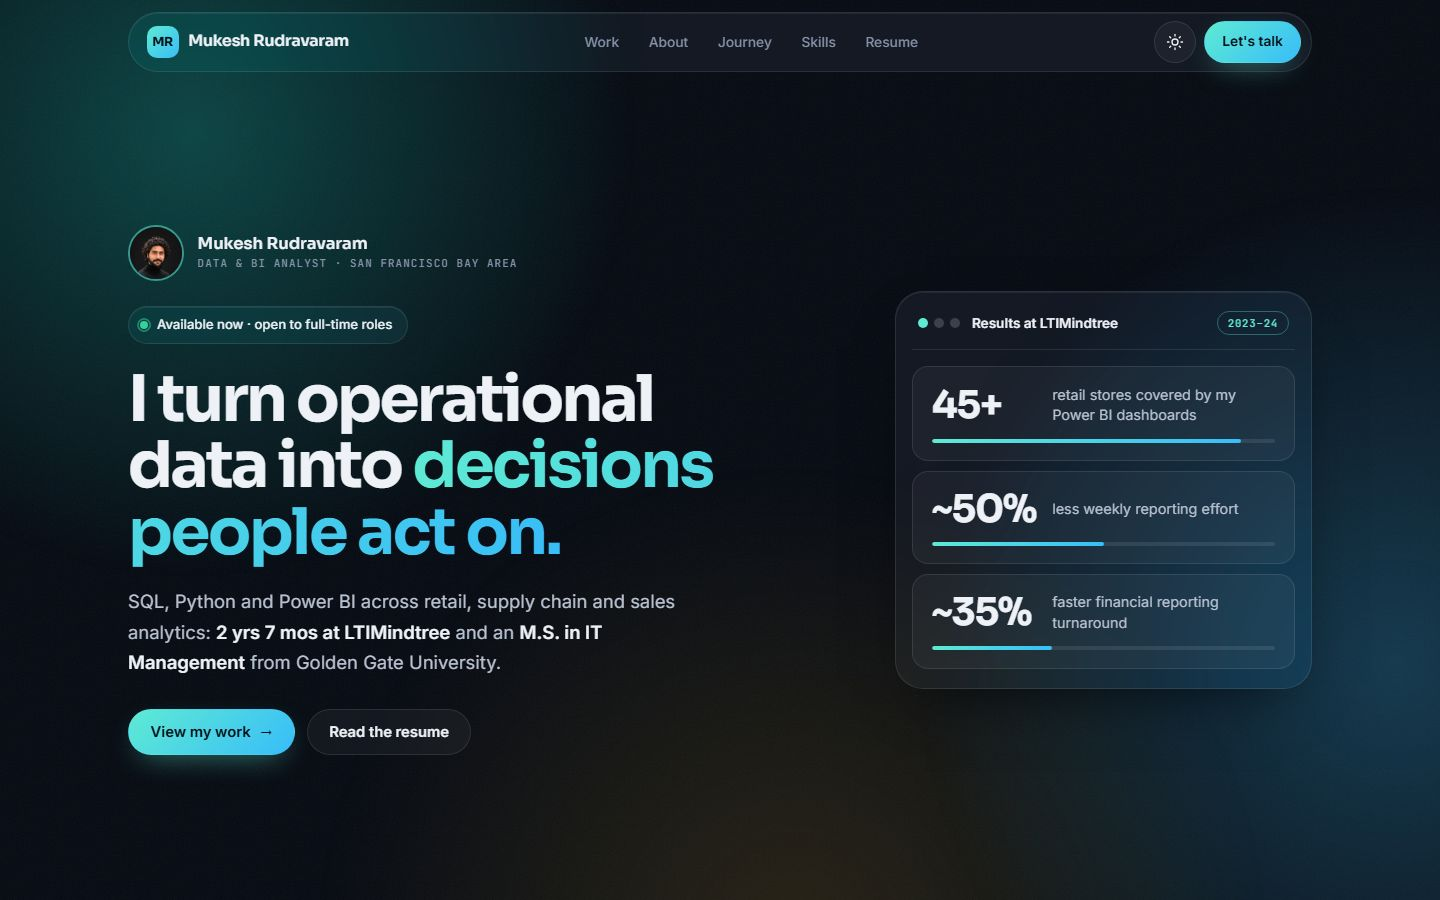
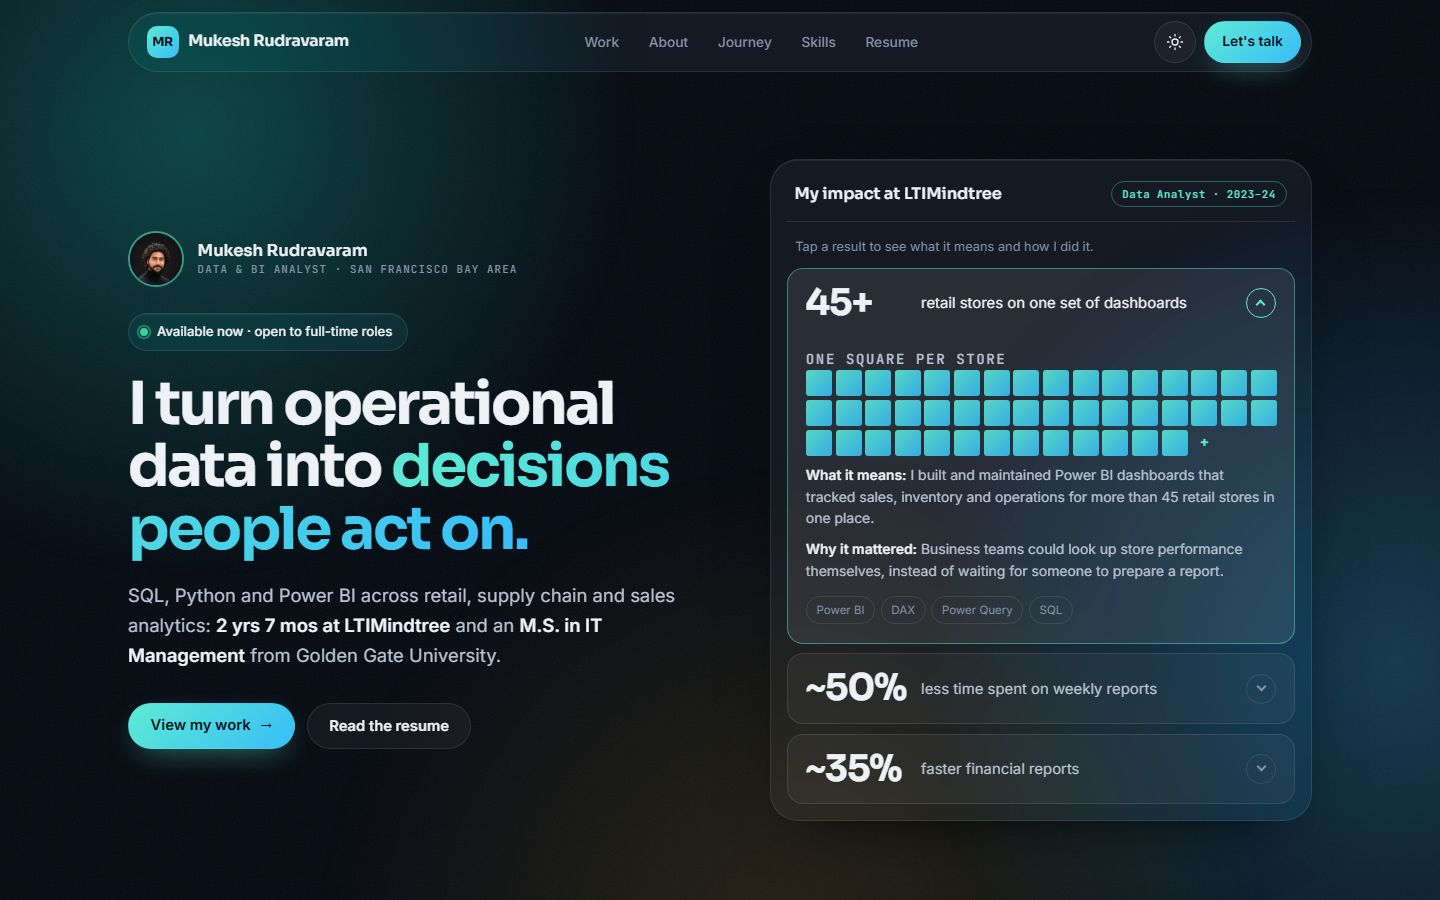
Hero: interactive "My impact" card that explains each result
- Each result opens (native <details>) to say what it means and how it was done
- 45+ stores as one square per store; ~50% and ~35% as before/after bars
- Remove the decorative window dots; wider card column, three-line headline
- Wrap the card header on small screens (no overflow at 320px)
- Reveal fallback so the hero never stays hidden if frames are delayed
- Refresh README and link-preview screenshots; note in CHANGELOG

diff --git a/index.html b/index.html
@@ -313,7 +313,7 @@ h4 {
 /* =============================================================== hero */
 .hero { padding-top: clamp(7.5rem, 13vw, 9.5rem); padding-bottom: clamp(3rem, 6vw, 4.5rem); min-height: min(100svh, 60rem); display: flex; align-items: center; }
 .hero > .wrap { width: 100%; }
-.hero-grid { display: grid; grid-template-columns: minmax(0, 1.25fr) minmax(0, 0.75fr); gap: clamp(2rem, 5vw, 4.5rem); align-items: center; }
+.hero-grid { display: grid; grid-template-columns: minmax(0, 1fr) minmax(0, 0.95fr); gap: clamp(2rem, 5vw, 4.5rem); align-items: center; }
 .hero-id { display: flex; align-items: center; gap: 0.85rem; margin-bottom: 1.6rem; }
 .avatar { width: 56px; height: 56px; border-radius: 50%; object-fit: cover; object-position: center 30%; border: 2px solid color-mix(in srgb, var(--accent) 55%, transparent); flex-shrink: 0; }
 .hero-id strong { display: block; color: var(--fg); font: 600 1.02rem/1.25 var(--f-display); }
@@ -326,52 +326,62 @@ h4 {
 .badge .dot { position: relative; width: 8px; height: 8px; border-radius: 50%; background: #34d399; }
 .badge .dot::after { content: ""; position: absolute; inset: -4px; border-radius: 50%; border: 2px solid #34d399; opacity: 0; animation: ping 2.4s var(--ease) infinite; }
 @keyframes ping { 0% { transform: scale(0.6); opacity: 0.7; } 100% { transform: scale(1.6); opacity: 0; } }
-.hero h1 { font: 700 clamp(2.3rem, 4.6vw, 4rem)/1.04 var(--f-display); letter-spacing: -0.04em; margin: 0 0 1.25rem; }
+.hero h1 { font: 700 clamp(2.3rem, 4.4vw, 3.7rem)/1.05 var(--f-display); letter-spacing: -0.04em; margin: 0 0 1.25rem; }
 .grad { background: linear-gradient(100deg, var(--accent), var(--accent-2)); -webkit-background-clip: text; background-clip: text; color: transparent; }
 .hero-sub { font-size: clamp(1.02rem, 1.5vw, 1.15rem); max-width: 50ch; color: var(--fg-soft); }
 .hero-sub b { color: var(--fg); font-weight: 600; }
 .hero-cta { display: flex; flex-wrap: wrap; gap: 0.75rem; margin-top: 2rem; }
 
-/* The dashboard card: real figures from the LTIMindtree work, and the data
-   path behind them drawn as a live pipeline. */
+/* Impact card: each result opens to explain itself in plain words, with a
+   before/after comparison or a count of stores. Built on <details>, so it
+   works with no script at all. */
 .dash { padding: 1rem; border-radius: 28px; }
-.dash-top { display: flex; align-items: center; gap: 0.75rem; padding: 0.2rem 0.4rem 0.9rem; border-bottom: 1px solid var(--line); }
-.dash-dots { display: flex; gap: 6px; }
-.dash-dots i { width: 10px; height: 10px; border-radius: 50%; background: color-mix(in srgb, var(--fg) 18%, transparent); }
-.dash-dots i:first-child { background: var(--accent); }
-.dash-title { font-size: 0.85rem; font-weight: 600; color: var(--fg); }
-.dash-when { margin-left: auto; font: 500 0.66rem/1 var(--f-mono); letter-spacing: 0.08em; color: var(--accent); padding: 0.35rem 0.6rem; border-radius: 999px; border: 1px solid color-mix(in srgb, var(--accent) 35%, transparent); }
-.kpis { display: grid; gap: 0.6rem; margin: 1rem 0 0.2rem; }
-.kpi { display: grid; grid-template-columns: 6.5rem 1fr; align-items: center; column-gap: 1rem; padding: 1.1rem 1.2rem; border-radius: 16px; background: var(--panel); border: 1px solid var(--line); }
-.kpi b { display: block; font: 700 clamp(1.8rem, 3vw, 2.4rem)/1 var(--f-display); letter-spacing: -0.03em; color: var(--fg); }
-.kpi span { display: block; font-size: 0.9rem; line-height: 1.4; color: var(--fg-soft); }
-.kpi-bar { grid-column: 1 / -1; height: 4px; border-radius: 4px; margin-top: 0.85rem; background: color-mix(in srgb, var(--fg) 10%, transparent); overflow: hidden; }
-.kpi-bar i { display: block; height: 100%; border-radius: inherit; background: var(--btn-bg); transform-origin: 0 50%; }
-.js .kpi-bar i { transform: scaleX(0); }
-.js.ready .kpi-bar i { transform: scaleX(1); transition: transform 1.4s var(--ease) 0.7s; }
-.flow-box { padding: 0.9rem 0.6rem 0.5rem; border-radius: 16px; background: var(--panel); border: 1px solid var(--line); }
-.flow-label { margin: 0 0.4rem 0.4rem; font: 500 0.64rem/1.2 var(--f-mono); letter-spacing: 0.12em; text-transform: uppercase; color: var(--fg-muted); }
-.flow { width: 100%; height: auto; }
-.flow .node { fill: color-mix(in srgb, var(--fg) 6%, transparent); stroke: var(--line-strong); }
-.flow .node.hub { fill: color-mix(in srgb, var(--accent) 16%, transparent); stroke: color-mix(in srgb, var(--accent) 55%, transparent); }
-.flow .node.out { fill: color-mix(in srgb, var(--accent-2) 16%, transparent); stroke: color-mix(in srgb, var(--accent-2) 55%, transparent); }
-.flow text { fill: var(--fg); font: 600 13px var(--f-body); }
-.flow text.sub { fill: var(--fg-muted); font: 500 10.5px var(--f-mono); letter-spacing: 0.04em; }
-.flow .wire { fill: none; stroke: var(--line-strong); stroke-width: 1.5; }
-.flow .pulse { fill: none; stroke: var(--accent); stroke-width: 2.5; stroke-linecap: round; stroke-dasharray: 10 190; animation: pulse 3s linear infinite; }
-.flow .pulse.p2 { animation-delay: -1s; }
-.flow .pulse.p3 { animation-delay: -2s; }
-.flow .pulse.out { stroke: var(--accent-2); stroke-dasharray: 10 90; animation-duration: 1.5s; }
-@keyframes pulse { from { stroke-dashoffset: 200; } to { stroke-dashoffset: 0; } }
+.dash-top { display: flex; align-items: center; gap: 0.75rem; padding: 0.35rem 0.5rem 0.9rem; border-bottom: 1px solid var(--line); }
+.dash-title { font: 600 1rem/1.3 var(--f-display); color: var(--fg); }
+.dash-when { margin-left: auto; white-space: nowrap; font: 500 0.66rem/1 var(--f-mono); letter-spacing: 0.06em; color: var(--accent); padding: 0.4rem 0.65rem; border-radius: 999px; border: 1px solid color-mix(in srgb, var(--accent) 35%, transparent); }
+.dash-hint { margin: 0.85rem 0.5rem 0; font-size: 0.8rem; color: var(--fg-muted); }
+.kpis { display: grid; gap: 0.6rem; margin-top: 0.7rem; }
+.kpi { border-radius: 16px; background: var(--panel); border: 1px solid var(--line); transition: border-color 0.3s ease, background 0.3s ease; }
+.kpi:hover { border-color: var(--line-strong); }
+.kpi[open] { border-color: color-mix(in srgb, var(--accent) 45%, transparent); background: var(--panel-strong); }
+.kpi summary {
+  display: grid; grid-template-columns: 6.2rem minmax(0, 1fr) auto; align-items: center; column-gap: 1rem;
+  padding: 1rem 1.1rem; cursor: pointer; list-style: none; border-radius: 16px;
+}
+.kpi summary::-webkit-details-marker { display: none; }
+.kpi b { font: 700 clamp(1.8rem, 3vw, 2.3rem)/1 var(--f-display); letter-spacing: -0.03em; color: var(--fg); }
+.kpi-l { font-size: 0.93rem; line-height: 1.35; color: var(--fg-soft); transition: color 0.2s ease; }
+.kpi summary:hover .kpi-l, .kpi[open] .kpi-l { color: var(--fg); }
+.chev { display: grid; place-items: center; width: 30px; height: 30px; border-radius: 50%; border: 1px solid var(--line); color: var(--fg-muted); transition: transform 0.35s var(--ease), border-color 0.3s ease, color 0.3s ease; }
+.chev::before { content: ""; width: 7px; height: 7px; border-right: 2px solid currentColor; border-bottom: 2px solid currentColor; transform: translateY(-2px) rotate(45deg); }
+.kpi[open] .chev { transform: rotate(180deg); border-color: var(--accent); color: var(--accent); }
+.kpi-more { padding: 0.1rem 1.1rem 1.15rem; animation: fadeUp 0.4s var(--ease); }
+.kpi-more p { font-size: 0.87rem; line-height: 1.55; margin: 0.6rem 0 0; color: var(--fg-soft); }
+.kpi-more strong { color: var(--fg); font-weight: 600; }
+.kpi-tools { display: flex; flex-wrap: wrap; gap: 0.35rem; margin-top: 0.85rem; }
+.kpi-tools li { font-size: 0.72rem; padding: 0.22rem 0.6rem; border-radius: 999px; border: 1px solid var(--line); color: var(--fg-muted); }
+.viz-label { margin: 0 0 0.45rem; font: 500 0.62rem/1.2 var(--f-mono); letter-spacing: 0.12em; text-transform: uppercase; color: var(--fg-muted); }
+/* 45+ stores, one square each. */
+.stores { display: grid; grid-template-columns: repeat(16, minmax(0, 1fr)); gap: 4px; }
+.stores i { aspect-ratio: 1; border-radius: 3px; background: var(--btn-bg); opacity: 0.9; animation: pop 0.35s var(--ease) both; animation-delay: calc(var(--n) * 12ms); }
+.stores .plus { display: grid; place-items: center; font: 700 0.85rem/1 var(--f-display); color: var(--accent); }
+@keyframes pop { from { transform: scale(0); opacity: 0; } }
+/* Before / after bars. */
+.compare { display: grid; gap: 0.45rem; }
+.cmp { display: grid; grid-template-columns: 3.3rem minmax(0, 1fr) 3rem; align-items: center; gap: 0.6rem; font-size: 0.78rem; color: var(--fg-muted); }
+.cmp em { font-style: normal; text-align: right; color: var(--fg); font-weight: 600; font-variant-numeric: tabular-nums; }
+.track { height: 9px; border-radius: 9px; background: color-mix(in srgb, var(--fg) 9%, transparent); overflow: hidden; }
+.track i { display: block; height: 100%; width: var(--w); border-radius: inherit; background: color-mix(in srgb, var(--fg) 32%, transparent); transform-origin: 0 50%; animation: grow 0.9s var(--ease) both 0.1s; }
+.cmp.after .track i { background: var(--btn-bg); animation-delay: 0.4s; }
+@keyframes grow { from { transform: scaleX(0); } }
 
-.tools { display: flex; flex-wrap: wrap; align-items: center; gap: 0.5rem; margin-top: clamp(2.5rem, 5vw, 4rem); padding-top: 1.5rem; border-top: 1px solid var(--line); }
-.tools-label { font: 500 0.68rem/1 var(--f-mono); letter-spacing: 0.12em; text-transform: uppercase; color: var(--fg-muted); margin-right: 0.5rem; }
-.tools li { font-size: 0.84rem; font-weight: 500; color: var(--fg-soft); padding: 0.4rem 0.8rem; border-radius: 999px; border: 1px solid var(--line); background: var(--panel); transition: border-color 0.25s ease, color 0.25s ease, transform 0.3s var(--ease); }
-.tools li:hover { border-color: var(--accent); color: var(--fg); transform: translateY(-2px); }
-.tools ul { display: contents; }
 @media (max-width: 960px) { .hero-grid { grid-template-columns: 1fr; } .dash { max-width: 36rem; } }
 @media (max-width: 560px) {
-  .kpi { grid-template-columns: 5rem 1fr; }
+  .kpi summary { grid-template-columns: 4.7rem minmax(0, 1fr) auto; column-gap: 0.75rem; padding: 0.9rem; }
+  .kpi-more { padding: 0.1rem 0.9rem 1rem; }
+  .dash-top { flex-wrap: wrap; row-gap: 0.5rem; }
+  .dash-when { margin-left: 0; }
+  .stores { grid-template-columns: repeat(12, minmax(0, 1fr)); }
   .hero-cta .btn { flex: 1 1 100%; }
 }
 
@@ -692,16 +702,49 @@ html:has(.case:popover-open) { overflow: hidden; }
         </div>
       </div>
 
-      <figure class="dash glass" data-enter style="--d:3; margin:0" aria-label="Results from my retail and supply chain analytics work at LTIMindtree">
+      <figure class="dash glass" data-enter style="--d:3; margin:0" aria-label="My impact at LTIMindtree, explained">
         <div class="dash-top">
-          <span class="dash-dots" aria-hidden="true"><i></i><i></i><i></i></span>
-          <span class="dash-title">Results at LTIMindtree</span>
-          <span class="dash-when">2023&ndash;24</span>
+          <span class="dash-title">My impact at LTIMindtree</span>
+          <span class="dash-when">Data Analyst &middot; 2023&ndash;24</span>
         </div>
+        <p class="dash-hint">Tap a result to see what it means and how I did it.</p>
         <div class="kpis">
-          <div class="kpi"><b>45+</b><span>retail stores covered by my Power BI dashboards</span><div class="kpi-bar" aria-hidden="true"><i style="width:90%"></i></div></div>
-          <div class="kpi"><b>~50%</b><span>less weekly reporting effort</span><div class="kpi-bar" aria-hidden="true"><i style="width:50%"></i></div></div>
-          <div class="kpi"><b>~35%</b><span>faster financial reporting turnaround</span><div class="kpi-bar" aria-hidden="true"><i style="width:35%"></i></div></div>
+          <details class="kpi" name="impact" open>
+            <summary><b>45+</b><span class="kpi-l">retail stores on one set of dashboards</span><span class="chev" aria-hidden="true"></span></summary>
+            <div class="kpi-more">
+              <p class="viz-label">One square per store</p>
+              <div class="stores" aria-hidden="true"><i style="--n:0"></i><i style="--n:1"></i><i style="--n:2"></i><i style="--n:3"></i><i style="--n:4"></i><i style="--n:5"></i><i style="--n:6"></i><i style="--n:7"></i><i style="--n:8"></i><i style="--n:9"></i><i style="--n:10"></i><i style="--n:11"></i><i style="--n:12"></i><i style="--n:13"></i><i style="--n:14"></i><i style="--n:15"></i><i style="--n:16"></i><i style="--n:17"></i><i style="--n:18"></i><i style="--n:19"></i><i style="--n:20"></i><i style="--n:21"></i><i style="--n:22"></i><i style="--n:23"></i><i style="--n:24"></i><i style="--n:25"></i><i style="--n:26"></i><i style="--n:27"></i><i style="--n:28"></i><i style="--n:29"></i><i style="--n:30"></i><i style="--n:31"></i><i style="--n:32"></i><i style="--n:33"></i><i style="--n:34"></i><i style="--n:35"></i><i style="--n:36"></i><i style="--n:37"></i><i style="--n:38"></i><i style="--n:39"></i><i style="--n:40"></i><i style="--n:41"></i><i style="--n:42"></i><i style="--n:43"></i><i style="--n:44"></i><span class="plus">+</span></div>
+              <p><strong>What it means:</strong> I built and maintained Power BI dashboards that tracked sales, inventory and operations for more than 45 retail stores in one place.</p>
+              <p><strong>Why it mattered:</strong> Business teams could look up store performance themselves, instead of waiting for someone to prepare a report.</p>
+              <ul class="kpi-tools"><li>Power BI</li><li>DAX</li><li>Power Query</li><li>SQL</li></ul>
+            </div>
+          </details>
+          <details class="kpi" name="impact">
+            <summary><b>~50%</b><span class="kpi-l">less time spent on weekly reports</span><span class="chev" aria-hidden="true"></span></summary>
+            <div class="kpi-more">
+              <p class="viz-label">Weekly reporting effort</p>
+              <div class="compare" aria-hidden="true">
+                <div class="cmp"><span>Before</span><span class="track"><i style="--w:100%"></i></span><em>100%</em></div>
+                <div class="cmp after"><span>After</span><span class="track"><i style="--w:50%"></i></span><em>~50%</em></div>
+              </div>
+              <p><strong>What it means:</strong> The work that went into weekly reporting dropped to about half of what it was.</p>
+              <p><strong>How:</strong> The dashboards gave teams self-service access to their own numbers, so far less had to be put together by hand every week.</p>
+              <ul class="kpi-tools"><li>Power BI</li><li>Advanced Excel</li></ul>
+            </div>
+          </details>
+          <details class="kpi" name="impact">
+            <summary><b>~35%</b><span class="kpi-l">faster financial reports</span><span class="chev" aria-hidden="true"></span></summary>
+            <div class="kpi-more">
+              <p class="viz-label">Time to deliver a financial report</p>
+              <div class="compare" aria-hidden="true">
+                <div class="cmp"><span>Before</span><span class="track"><i style="--w:100%"></i></span><em>100%</em></div>
+                <div class="cmp after"><span>After</span><span class="track"><i style="--w:65%"></i></span><em>~65%</em></div>
+              </div>
+              <p><strong>What it means:</strong> Financial reports were ready about a third sooner than before.</p>
+              <p><strong>How:</strong> I automated the recurring steps that used to be done by hand: pulling the data, transforming and checking it, and generating the report.</p>
+              <ul class="kpi-tools"><li>SQL</li><li>Python</li><li>Power BI</li></ul>
+            </div>
+          </details>
         </div>
       </figure>
     </div>
@@ -1294,6 +1337,8 @@ html:has(.case:popover-open) { overflow: hidden; }
   root.classList.add('js');
   // Next frame, so the hidden start state paints before the entrance runs.
   requestAnimationFrame(function () { requestAnimationFrame(function () { root.classList.add('ready'); }); });
+  // Safety net: if frames are delayed (background tab, screenshot tools), still reveal the hero.
+  setTimeout(function () { root.classList.add('ready'); }, 900);
 
   /* ------------------------------------------------------------- toast */
   var toastEl = $('#toast'), toastTimer;

diff --git a/CHANGELOG.md b/CHANGELOG.md
@@ -1,5 +1,12 @@
 # Changelog
 
+## Unreleased
+
+### Hero
+- The results card is now an interactive "My impact at LTIMindtree" panel: each result opens to explain what it means and how it was achieved, in plain words
+- 45+ stores shown as one square per store; ~50% and ~35% shown as before/after bars
+- Decorative window dots removed
+
 ## v1.1 — November 2026
 
 First published version of the redesigned portfolio.
